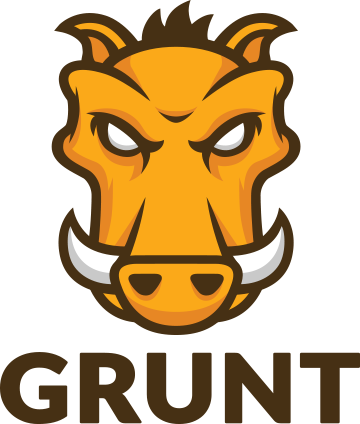
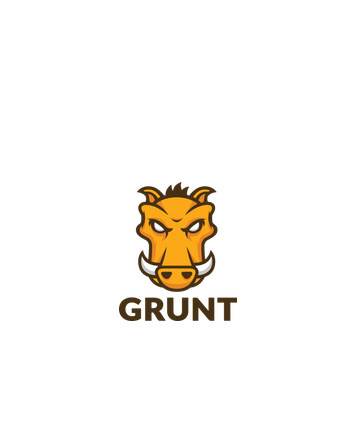
0.0.4

diff --git a/app/css/main.css b/app/css/main.css
@@ -1,303 +1,18 @@
-/*
- * HTML5 Boilerplate
- *
- * What follows is the result of much research on cross-browser styling.
- * Credit left inline and big thanks to Nicolas Gallagher, Jonathan Neal,
- * Kroc Camen, and the H5BP dev community and team.
- */
-
-/* ==========================================================================
-   Base styles: opinionated defaults
-   ========================================================================== */
-
-html,
-button,
-input,
-select,
-textarea {
-    color: #222;
-}
+/*  ==========================================================================
+    CODIO GRUNT TUTORIAL
+    FREDDY MAY / CODIO 
+    A few basic styles to see what grunt does    
+    ========================================================================== */
 
 body {
-    font-size: 1em;
-    line-height: 1.4;
+    color: #444444;
+    font-size: 30px;
+    line-height: 1.0;
+    background-image:url('../img/grunt.png');
 }
-
-/*
- * Remove text-shadow in selection highlight: h5bp.com/i
- * These selection declarations have to be separate.
- * Customize the background color to match your design.
- */
-
-::-moz-selection {
-    background: #b3d4fc;
-    text-shadow: none;
-}
-
-::selection {
-    background: #b3d4fc;
-    text-shadow: none;
-}
-
-/*
- * A better looking default horizontal rule
- */
-
-hr {
-    display: block;
-    height: 1px;
-    border: 0;
-    border-top: 1px solid #ccc;
-    margin: 1em 0;
-    padding: 0;
-}
-
-/*
- * Remove the gap between images and the bottom of their containers: h5bp.com/i/440
- */
-
-img {
-    vertical-align: middle;
-}
-
-/*
- * Remove default fieldset styles.
- */
-
-fieldset {
-    border: 0;
-    margin: 0;
-    padding: 0;
-}
-
-/*
- * Allow only vertical resizing of textareas.
- */
-
-textarea {
-    resize: vertical;
-}
-
-/* ==========================================================================
-   Chrome Frame prompt
-   ========================================================================== */
-
-.chromeframe {
-    margin: 0.2em 0;
-    background: #ccc;
-    color: #000;
-    padding: 0.2em 0;
-}
-
-/* ==========================================================================
-   Author's custom styles
-   ========================================================================== */
 
 h1 {
-    font-size: 20px;
+    font-size: 50px;
     color: #dd4949;
 }
 
-
-
-
-
-
-
-
-
-
-
-
-
-
-
-/* ==========================================================================
-   Helper classes
-   ========================================================================== */
-
-/*
- * Image replacement
- */
-
-.ir {
-    background-color: transparent;
-    border: 0;
-    overflow: hidden;
-    /* IE 6/7 fallback */
-    *text-indent: -9999px;
-}
-
-.ir:before {
-    content: "";
-    display: block;
-    width: 0;
-    height: 150%;
-}
-
-/*
- * Hide from both screenreaders and browsers: h5bp.com/u
- */
-
-.hidden {
-    display: none !important;
-    visibility: hidden;
-}
-
-/*
- * Hide only visually, but have it available for screenreaders: h5bp.com/v
- */
-
-.visuallyhidden {
-    border: 0;
-    clip: rect(0 0 0 0);
-    height: 1px;
-    margin: -1px;
-    overflow: hidden;
-    padding: 0;
-    position: absolute;
-    width: 1px;
-}
-
-/*
- * Extends the .visuallyhidden class to allow the element to be focusable
- * when navigated to via the keyboard: h5bp.com/p
- */
-
-.visuallyhidden.focusable:active,
-.visuallyhidden.focusable:focus {
-    clip: auto;
-    height: auto;
-    margin: 0;
-    overflow: visible;
-    position: static;
-    width: auto;
-}
-
-/*
- * Hide visually and from screenreaders, but maintain layout
- */
-
-.invisible {
-    visibility: hidden;
-}
-
-/*
- * Clearfix: contain floats
- *
- * For modern browsers
- * 1. The space content is one way to avoid an Opera bug when the
- *    `contenteditable` attribute is included anywhere else in the document.
- *    Otherwise it causes space to appear at the top and bottom of elements
- *    that receive the `clearfix` class.
- * 2. The use of `table` rather than `block` is only necessary if using
- *    `:before` to contain the top-margins of child elements.
- */
-
-.clearfix:before,
-.clearfix:after {
-    content: " "; /* 1 */
-    display: table; /* 2 */
-}
-
-.clearfix:after {
-    clear: both;
-}
-
-/*
- * For IE 6/7 only
- * Include this rule to trigger hasLayout and contain floats.
- */
-
-.clearfix {
-    *zoom: 1;
-}
-
-/* ==========================================================================
-   EXAMPLE Media Queries for Responsive Design.
-   Theses examples override the primary ('mobile first') styles.
-   Modify as content requires.
-   ========================================================================== */
-
-@media only screen and (min-width: 35em) {
-    /* Style adjustments for viewports that meet the condition */
-}
-
-@media print,
-       (-o-min-device-pixel-ratio: 5/4),
-       (-webkit-min-device-pixel-ratio: 1.25),
-       (min-resolution: 120dpi) {
-    /* Style adjustments for high resolution devices */
-}
-
-/* ==========================================================================
-   Print styles.
-   Inlined to avoid required HTTP connection: h5bp.com/r
-   ========================================================================== */
-
-@media print {
-    * {
-        background: transparent !important;
-        color: #000 !important; /* Black prints faster: h5bp.com/s */
-        box-shadow: none !important;
-        text-shadow: none !important;
-    }
-
-    a,
-    a:visited {
-        text-decoration: underline;
-    }
-
-    a[href]:after {
-        content: " (" attr(href) ")";
-    }
-
-    abbr[title]:after {
-        content: " (" attr(title) ")";
-    }
-
-    /*
-     * Don't show links for images, or javascript/internal links
-     */
-
-    .ir a:after,
-    a[href^="javascript:"]:after,
-    a[href^="#"]:after {
-        content: "";
-    }
-
-    pre,
-    blockquote {
-        border: 1px solid #999;
-        page-break-inside: avoid;
-    }
-
-    thead {
-        display: table-header-group; /* h5bp.com/t */
-    }
-
-    tr,
-    img {
-        page-break-inside: avoid;
-    }
-
-    img {
-        max-width: 100% !important;
-    }
-
-    @page {
-        margin: 0.5cm;
-    }
-
-    p,
-    h2,
-    h3 {
-        orphans: 3;
-        widows: 3;
-    }
-
-    h2,
-    h3 {
-        page-break-after: avoid;
-    }
-}

diff --git a/app/index.html b/app/index.html
@@ -1,12 +1,9 @@
 <!DOCTYPE html>
-<!--[if lt IE 7]>      <html class="no-js lt-ie9 lt-ie8 lt-ie7"> <![endif]-->
-<!--[if IE 7]>         <html class="no-js lt-ie9 lt-ie8"> <![endif]-->
-<!--[if IE 8]>         <html class="no-js lt-ie9"> <![endif]-->
-<!--[if gt IE 8]><!--> <html class="no-js"> <!--<![endif]-->
+
     <head>
         <meta charset="utf-8">
         <meta http-equiv="X-UA-Compatible" content="IE=edge,chrome=1">
-        <title></title>
+        <title>Codio Tutorial</title>
         <meta name="description" content="">
         <meta name="viewport" content="width=device-width">
 
@@ -16,7 +13,6 @@
         <!-- endbuild -->
 
         <!-- build:js js/optimized.js -->
-        <script src="js/vendor/modernizr-2.6.2.min.js"></script>
         <script src="js/plugins.js"></script>
         <script src="js/main.js"></script>        
         <!-- endbuild -->
@@ -26,4 +22,5 @@
         <h1>Codio Grunt Tutorial</h1>
         <p>Hello world!</p>
     </body>
+
 </html>
